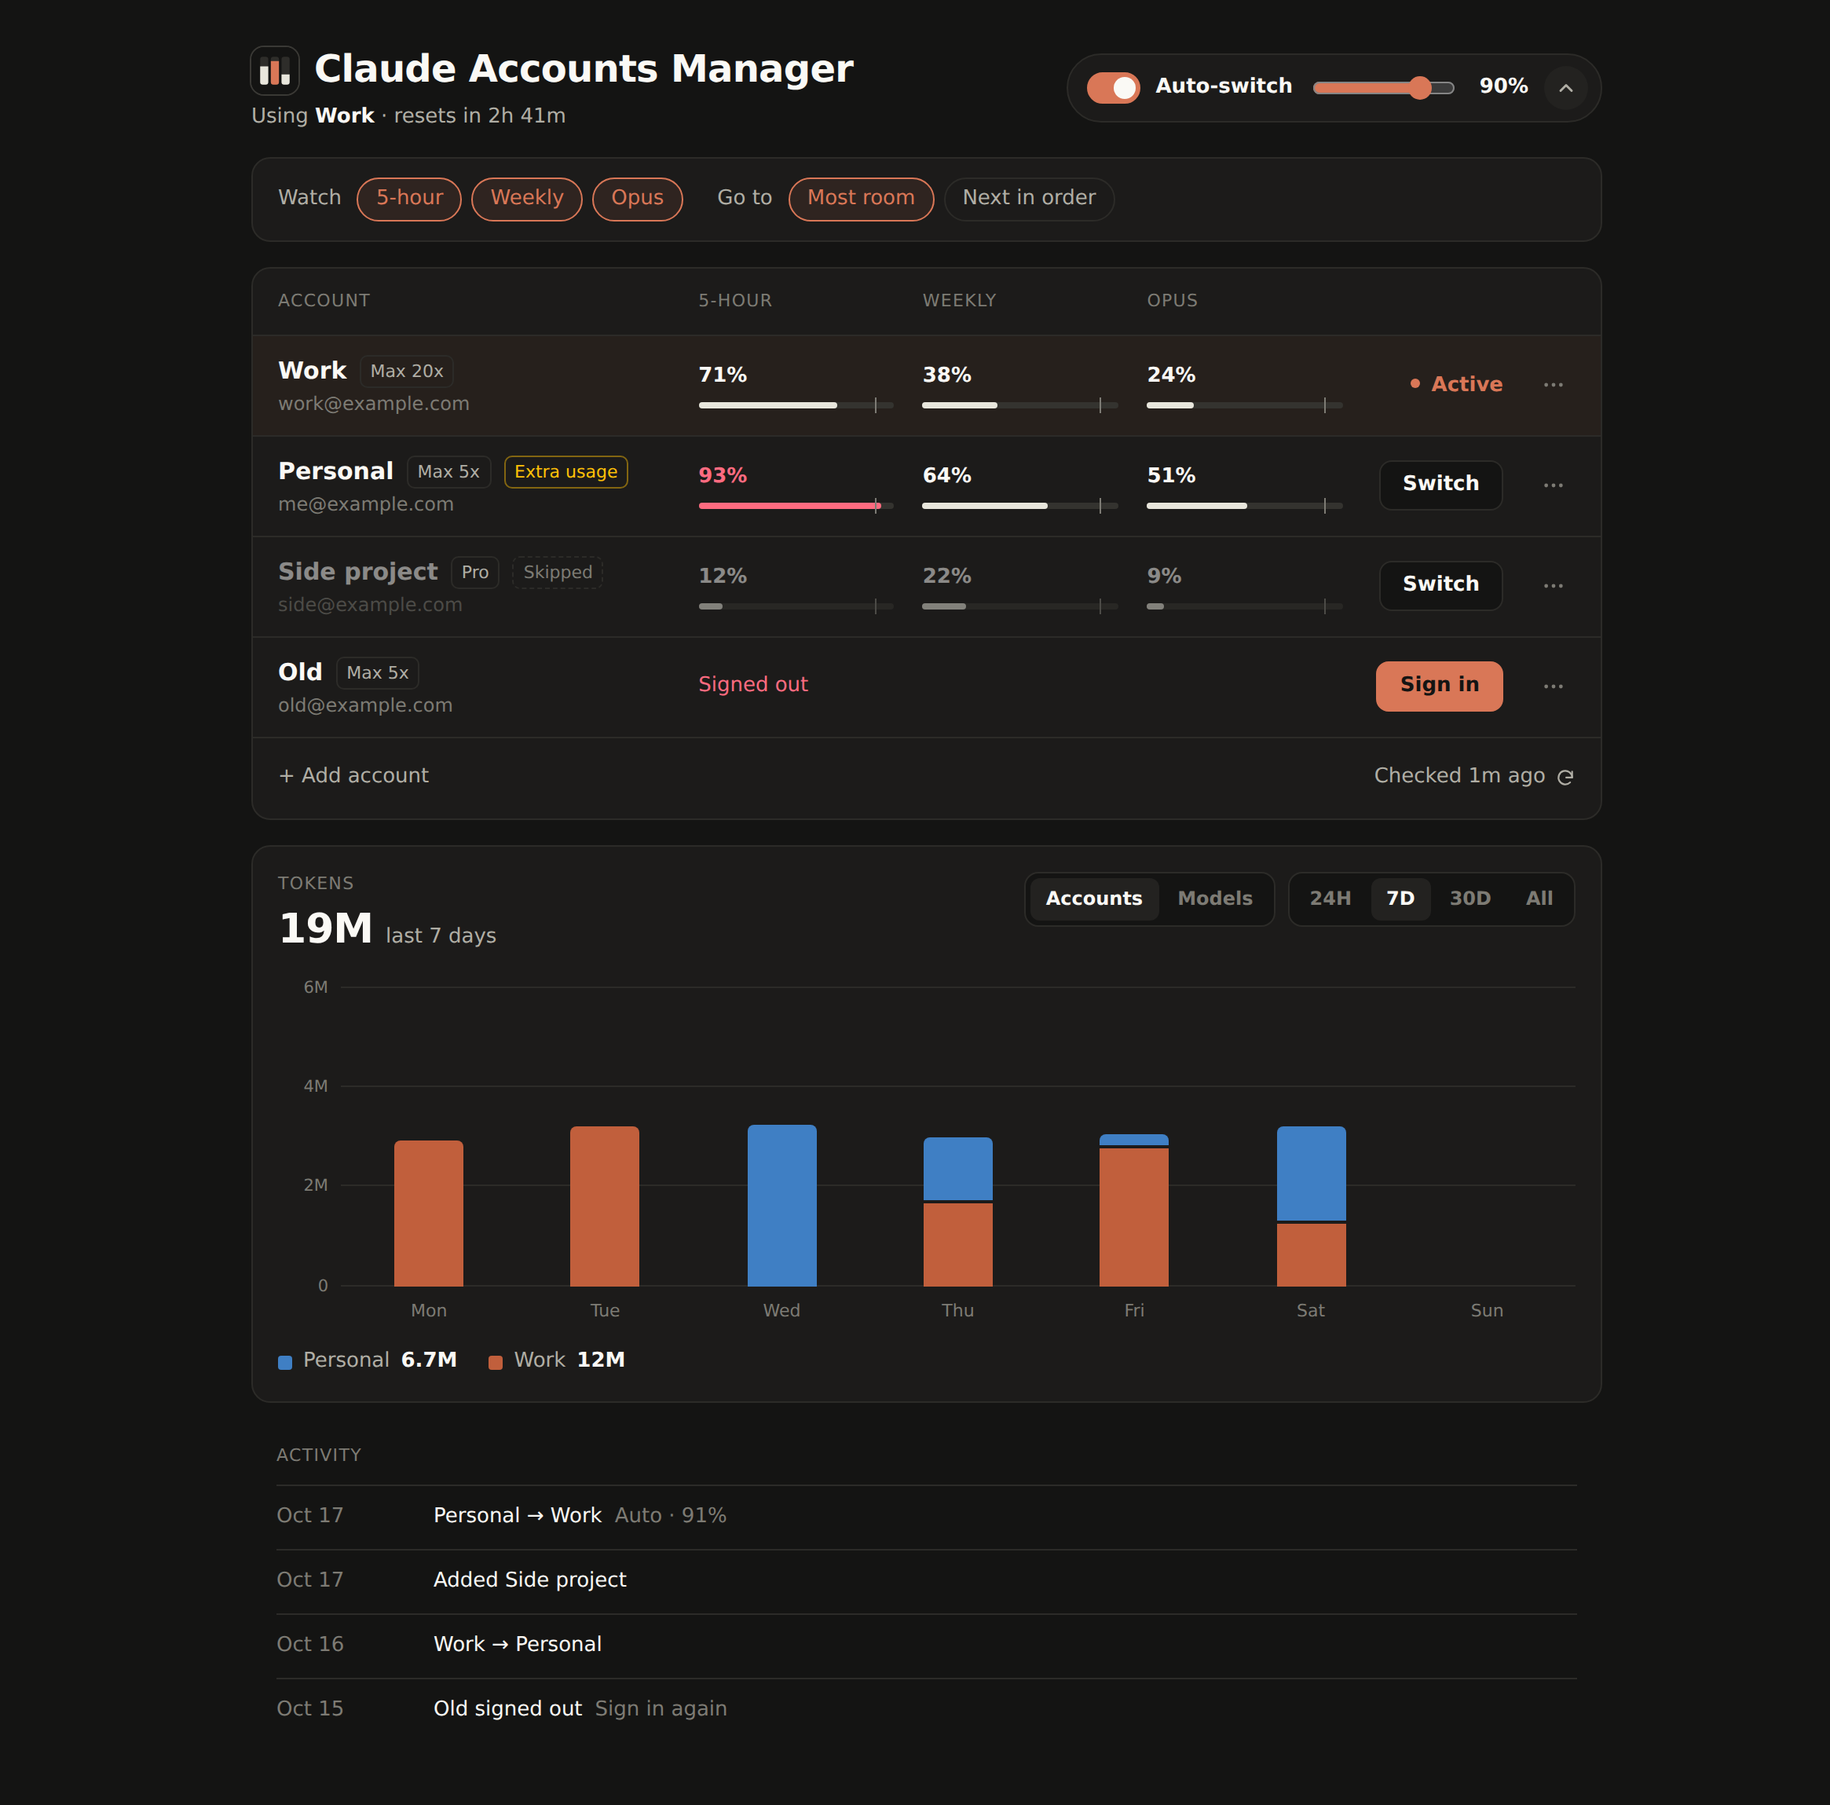
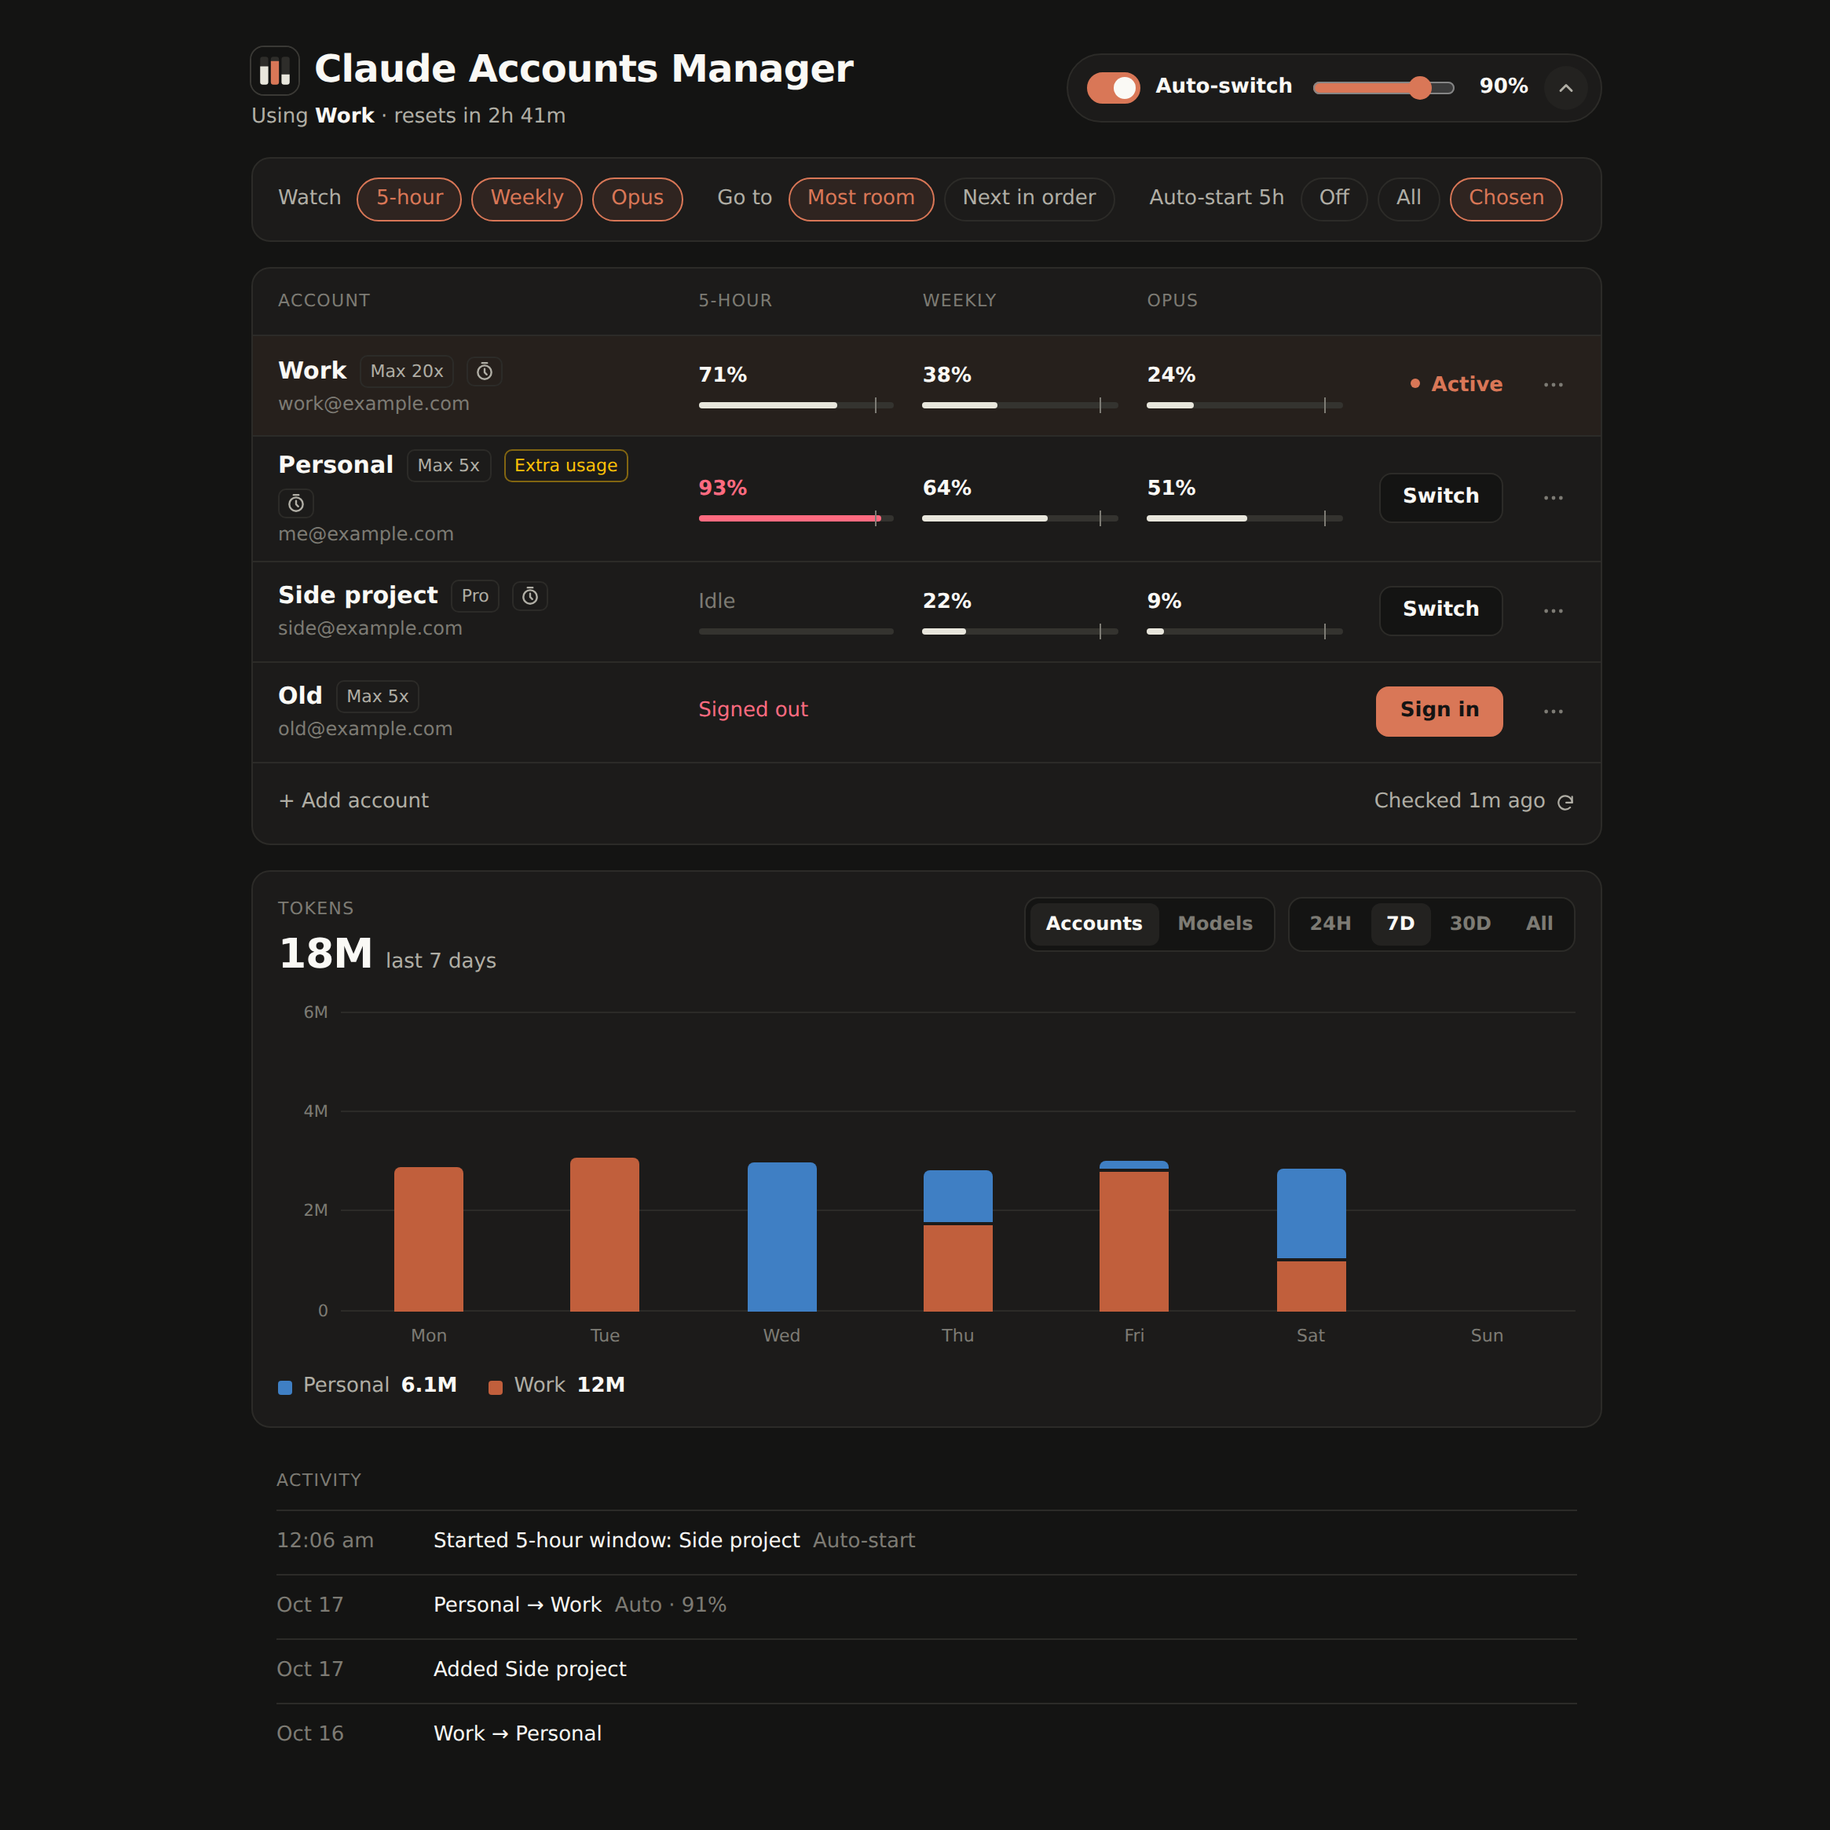
Auto-start idle 5-hour windows
A Claude subscription's 5-hour window starts with the first message. When
"Auto-start 5h" is on (for all accounts or chosen ones), the app sends "hi"
from accounts whose window isn't running, so it starts and resets sooner.

The message goes through the Claude Code CLI in print mode on Haiku, logged
in with the account's token via CLAUDE_CODE_OAUTH_TOKEN and its own empty
config directory, so the live login, settings and history are untouched.
At most one message per account every 15 minutes; each is logged.

The 5-hour column shows "Idle" while no window is running, and rows with
auto-start on carry a clock tag.

diff --git a/public/app.js b/public/app.js
@@ -9,6 +9,7 @@ const OTHER = '#5F5E5A';
 const FAMILY = { opus: ['Opus', PAL[0]], sonnet: ['Sonnet', PAL[1]], haiku: ['Haiku', PAL[2]], fable: ['Fable', PAL[3]] };
 
 const ICON_GRIP = '<svg viewBox="0 0 12 12" fill="currentColor"><circle cx="4" cy="2.5" r="1.1"/><circle cx="8" cy="2.5" r="1.1"/><circle cx="4" cy="6" r="1.1"/><circle cx="8" cy="6" r="1.1"/><circle cx="4" cy="9.5" r="1.1"/><circle cx="8" cy="9.5" r="1.1"/></svg>';
+const ICON_CLOCK = '<svg viewBox="0 0 24 24" fill="none" stroke="currentColor" stroke-width="2.2" stroke-linecap="round" stroke-linejoin="round"><circle cx="12" cy="13" r="8"/><path d="M12 9v4l2.5 2.5M9 2h6"/></svg>';
 const ICON_DOTS = '<svg width="16" height="16" viewBox="0 0 24 24" fill="currentColor"><circle cx="5" cy="12" r="1.8"/><circle cx="12" cy="12" r="1.8"/><circle cx="19" cy="12" r="1.8"/></svg>';
 
 let S = null; // /api/state
@@ -76,6 +77,7 @@ function render() {
     $('#thVal').textContent = `${s.threshold}%`;
     document.querySelectorAll('[data-watch]').forEach((el) => (el.checked = !!s.watch[el.dataset.watch]));
     document.querySelectorAll('[name=strategy]').forEach((el) => (el.checked = el.value === s.strategy));
+    document.querySelectorAll('[name=warmup]').forEach((el) => (el.checked = el.value === s.warmup));
   }
   $('#pill').classList.toggle('off', !s.autoSwitch);
   const models = columns().filter((c) => c.cat === 'scoped').map((c) => c.label);
@@ -88,12 +90,16 @@ function render() {
 
 function meterCell(a, c) {
   const m = a.meters.find((x) => x.id === c.id);
+  if (!m && c.cat === 'session' && a.sessionIdle) {
+    return `<div class="mc" title="5-hour window not started"><div class="mc-top"><span class="mc-k">${esc(c.label)}</span><b class="idle">Idle</b></div><div class="bar"></div></div>`;
+  }
   if (!m) return `<div class="mc off"><div class="mc-top"><span class="mc-k">${esc(c.label)}</span><b>–</b></div><div class="bar"></div></div>`;
   const counted = S.settings.watch[m.cat] && m.active;
   const lv = counted ? level(m.pct) : '';
-  const title = `${c.label}: ${Math.round(m.pct)}% used${m.resetsAt ? `, resets ${untilText(m.resetsAt)}` : ''}${counted ? '' : ' (not watched)'}`;
+  const idle = m.cat === 'session' && a.sessionIdle;
+  const title = idle ? '5-hour window not started' : `${c.label}: ${Math.round(m.pct)}% used${m.resetsAt ? `, resets ${untilText(m.resetsAt)}` : ''}${counted ? '' : ' (not watched)'}`;
   return `<div class="mc ${m.active ? '' : 'off'}" title="${esc(title)}">
-    <div class="mc-top"><span class="mc-k">${esc(c.label)}</span><b class="num ${lv}">${Math.round(m.pct)}%</b></div>
+    <div class="mc-top"><span class="mc-k">${esc(c.label)}</span>${idle ? '<b class="idle">Idle</b>' : `<b class="num ${lv}">${Math.round(m.pct)}%</b>`}</div>
     <div class="bar"><i class="${lv}" style="width:${Math.min(100, Math.max(0, m.pct))}%"></i>${counted && S.settings.autoSwitch ? `<s style="left:${S.settings.threshold}%"></s>` : ''}</div>
   </div>`;
 }
@@ -110,6 +116,7 @@ function renderTable() {
           plan(a) && `<span class="tag">${esc(plan(a))}</span>`,
           a.extraUsage && '<span class="tag warn" title="Past the plan limit this account bills extra usage instead of stopping. Turn it off in claude.ai settings.">Extra usage</span>',
           a.excluded && '<span class="tag skip">Skipped</span>',
+          a.warmupOn && `<span class="tag ico ${a.warmupError ? 'warn' : ''}" title="${esc(a.warmupError ? `Auto-start failed: ${a.warmupError}` : 'Auto-start: this account’s 5-hour window starts automatically when it isn’t running')}" aria-label="Auto-start">${ICON_CLOCK}</span>`,
         ].filter(Boolean).join('');
         const cells = a.authError ? `<span class="gone" style="grid-column: span ${cols.length}">Signed out</span>` : cols.map((c) => meterCell(a, c)).join('');
         const action = live ? '<span class="live-dot">Active</span>'
@@ -144,6 +151,8 @@ function eventLine(e) {
   if (d.kind === 'signedout') return [`${nm(d.id, d.name)} signed out`, 'Sign in again'];
   if (d.kind === 'external') return [`Claude Code switched to ${nm(d.id, d.name)}`, 'Outside the app'];
   if (d.kind === 'stuck') return ['Nowhere to switch', `${nm(d.id, d.name)} at ${d.pct}%`];
+  if (d.kind === 'warmup') return [`Started 5-hour window: ${nm(d.id, d.name)}`, 'Auto-start'];
+  if (d.kind === 'warmupFailed') return [`Couldn’t start 5-hour window: ${nm(d.id, d.name)}`, d.error || ''];
   return [e.msg, ''];
 }
 
@@ -339,10 +348,13 @@ function openMenu(btn) {
   const items = [
     !a.authError && ['refresh', 'Refresh usage'],
     ['exclude', a.excluded ? 'Include in auto-switch' : 'Skip in auto-switch'],
+    S.settings.warmup === 'all' ? ['', 'Auto-start 5h: on for all accounts', 'disabled'] : ['warmup', a.warmup ? 'Stop auto-starting 5h window' : 'Auto-start 5h window'],
     ['relogin', 'Sign in again'],
     ['remove', 'Remove', 'danger'],
   ].filter(Boolean);
-  menu.innerHTML = items.map(([act, label, cls]) => `<button role="menuitem" class="${cls || ''}" data-act="${act}" data-id="${a.id}">${label}</button>`).join('');
+  menu.innerHTML = items
+    .map(([act, label, cls]) => (cls === 'disabled' ? `<button role="menuitem" disabled>${label}</button>` : `<button role="menuitem" class="${cls || ''}" data-act="${act}" data-id="${a.id}">${label}</button>`))
+    .join('');
   clearTimeout(menuTimer);
   menu.classList.add('shut');
   menu.hidden = false;
@@ -396,6 +408,9 @@ document.addEventListener(
         toast('Usage refreshed');
       } else if (act === 'exclude') {
         await call('/api/account', { id, excluded: !a.excluded });
+      } else if (act === 'warmup') {
+        await call('/api/account', { id, warmup: !a.warmup });
+        toast(a.warmup ? `Stopped auto-starting ${nameOf(a)}` : `${nameOf(a)}’s 5-hour window will start automatically`);
       } else if (act === 'remove') {
         if (!confirm(`Remove ${nameOf(a)}? Claude Code keeps its current login.`)) return;
         await call('/api/account/remove', { id });
@@ -470,6 +485,7 @@ $('#threshold').oninput = (e) => {
 $('#threshold').onchange = (e) => saveSettings({ threshold: Number(e.target.value) });
 document.querySelectorAll('[data-watch]').forEach((el) => (el.onchange = () => saveSettings({ watch: { [el.dataset.watch]: el.checked } })));
 document.querySelectorAll('[name=strategy]').forEach((el) => (el.onchange = () => saveSettings({ strategy: el.value })));
+document.querySelectorAll('[name=warmup]').forEach((el) => (el.onchange = () => saveSettings({ warmup: el.value })));
 
 // ---------- rename: double-click, or double-tap on phones ----------
 

diff --git a/public/app.css b/public/app.css
@@ -79,6 +79,8 @@ button, input, select { font: inherit; color: inherit; }
 .tag { flex: none; font-size: 11px; line-height: 1; padding: 4px 6px; border-radius: 5px; border: 1px solid var(--rule); color: var(--text-2); white-space: nowrap; }
 .tag.warn { border-color: rgb(255 193 7 / .45); color: var(--yellow); }
 .tag.skip { border-style: dashed; color: var(--text-3); }
+.tag.ico { padding: 2px 4px; display: inline-grid; place-items: center; }
+.tag.ico svg { width: 13px; height: 13px; }
 .grip { display: none; }
 .row.skip .nm b, .row.skip .nm-mail, .row.skip .mc { opacity: .5; }
 .mc-top { display: flex; justify-content: space-between; align-items: baseline; gap: 6px; }
@@ -116,6 +118,8 @@ button, input, select { font: inherit; color: inherit; }
 .menu button { display: block; width: 100%; text-align: left; appearance: none; border: 0; background: none; padding: 8px 10px; border-radius: 6px; font-size: 13px; cursor: pointer; }
 .menu button:hover, .menu button:focus-visible { background: #31302D; outline: none; }
 .menu button.danger { color: var(--red); }
+.menu button:disabled { color: var(--text-3); cursor: default; background: none; }
+.mc-top b.idle { color: var(--text-3); font-weight: 500; }
 
 /* Token chart */
 .chart { margin-top: 16px; padding: 16px; }
@@ -155,7 +159,7 @@ button, input, select { font: inherit; color: inherit; }
 .activity ol { list-style: none; margin: 10px 0 0; padding: 0; }
 .activity li { display: grid; grid-template-columns: 88px 1fr; gap: 12px; padding: 11px 0; border-top: 1px solid var(--rule); font-size: 13px; }
 .activity time { color: var(--text-3); }
-.activity em { font-style: normal; color: var(--text-3); margin-left: 8px; }
+.activity em { font-style: normal; color: var(--text-3); margin-left: 8px; white-space: nowrap; }
 
 /* Sign-in sheet */
 dialog { border: 1px solid var(--rule); padding: 18px 18px calc(18px + env(safe-area-inset-bottom)); background: var(--panel); color: var(--text); width: 100%; max-width: 460px; margin: auto auto 0; border-radius: 16px 16px 0 0; }

diff --git a/public/index.html b/public/index.html
@@ -44,6 +44,11 @@
       <label class="chip"><input type="radio" name="strategy" value="lowest"><span>Most room</span></label>
       <label class="chip"><input type="radio" name="strategy" value="priority"><span>Next in order</span></label>
     </div>
+    <div class="grp" title="Send a one-word message with Claude Code to accounts whose 5-hour window hasn't started, so the window starts and resets sooner."><span class="k">Auto-start 5h</span>
+      <label class="chip"><input type="radio" name="warmup" value="off"><span>Off</span></label>
+      <label class="chip"><input type="radio" name="warmup" value="all"><span>All</span></label>
+      <label class="chip"><input type="radio" name="warmup" value="some"><span>Chosen</span></label>
+    </div>
   </section>
   </div></div>
 

diff --git a/README.md b/README.md
@@ -12,6 +12,7 @@ I run Claude Code on a server and have more than one Claude subscription. Every 
 - Shows each account's 5-hour session, weekly and per-model limits, with reset times, read from the same endpoint as Claude Code's `/usage`.
 - Switches Claude Code to another account. Sessions that are already running pick up the new login on their next request, without a restart.
 - Auto-switch: when the active account reaches a threshold you set (90% by default), it moves Claude Code to the account with the most room left, or to the next one in your order.
+- Can start idle accounts' 5-hour windows for you by sending them a one-word message, so their limits reset sooner. You choose which accounts.
 - Charts token usage from Claude Code's transcripts, per account or per model, for the last 24 hours, 7 days, 30 days or all time.
 - Warns about anything that would bypass your subscriptions, such as an `ANTHROPIC_API_KEY` in a running Claude process, an `apiKeyHelper`, or extra usage (pay-as-you-go) being enabled on an account.
 - Works on a phone. Rows reorder by drag and drop, and names change on double-click or double-tap.
@@ -97,6 +98,14 @@ Open the options with the arrow next to the auto-switch slider.
 - After an automatic switch the app waits at least 3 minutes before switching again.
 - If every account is past the threshold, it stays put and says so.
 
+## Auto-start 5-hour windows
+
+An account's 5-hour window starts with its first message and resets 5 hours later. While an account sits unused, no window is running. When you finally switch to it, its window only starts then, and so only resets 5 hours later. With auto-start on, the app sends "hi" from idle accounts so their windows start right away and have reset, or nearly, by the time you need them. When a window ends and nothing starts a new one, the next check starts it again, so windows run back to back.
+
+Choose **Auto-start 5h** in the options row: Off, All, or Chosen. With Chosen, turn it on for an account in that row's ⋯ menu. Accounts with it on show an "Auto-start" tag, and the 5-hour column says "Idle" while no window is running.
+
+The message goes through the real Claude Code CLI: `claude -p hi --model haiku --tools "" --no-session-persistence`, with the account's token in `CLAUDE_CODE_OAUTH_TOKEN` and its own empty config directory (`$CAM_DATA_DIR/warmup`). It costs a few Haiku tokens, doesn't touch the login Claude Code is using, and doesn't load your settings, hooks or plugins. The app messages an account at most once every 15 minutes and logs each message under Activity.
+
 ## Configuration
 
 All settings are environment variables.
@@ -109,9 +118,9 @@ All settings are environment variables.
 | `CAM_ALLOWED_LOGINS` | empty | Comma-separated Tailscale logins allowed to use the UI. Empty allows anyone who can reach the port |
 | `CAM_CLAUDE_DIR` | `$CLAUDE_CONFIG_DIR` or `~/.claude` | Claude Code's config directory, which holds `.credentials.json` and `projects/` |
 | `CAM_CLAUDE_JSON` | `~/.claude.json` | Claude Code's global config file |
-| `CAM_CLAUDE_BIN` | `claude` on `PATH`, else `~/.local/bin/claude` | The Claude Code executable, used to read its version |
+| `CAM_CLAUDE_BIN` | `claude` on `PATH`, else `~/.local/bin/claude` | The Claude Code executable. Used to read its version and to send auto-start messages |
 
-Threshold, watched limits, switch strategy and check intervals are set in the UI and saved with the accounts.
+Threshold, watched limits, switch strategy, auto-start and check intervals are set in the UI and saved with the accounts.
 
 ## Security
 
@@ -148,6 +157,7 @@ src/store.mjs         state.json: accounts, settings, activity, timeline
 src/tokens.mjs        token usage index built from Claude Code transcripts
 src/usage.mjs         turns the usage API answer into meters
 src/health.mjs        warnings about logins that bypass the subscription
+src/warmup.mjs        auto-start: sends "hi" through the Claude Code CLI as one account
 src/http.mjs          HTTP server and API routes
 public/               the page (plain HTML, CSS and JavaScript modules)
 test/                 unit and integration tests
